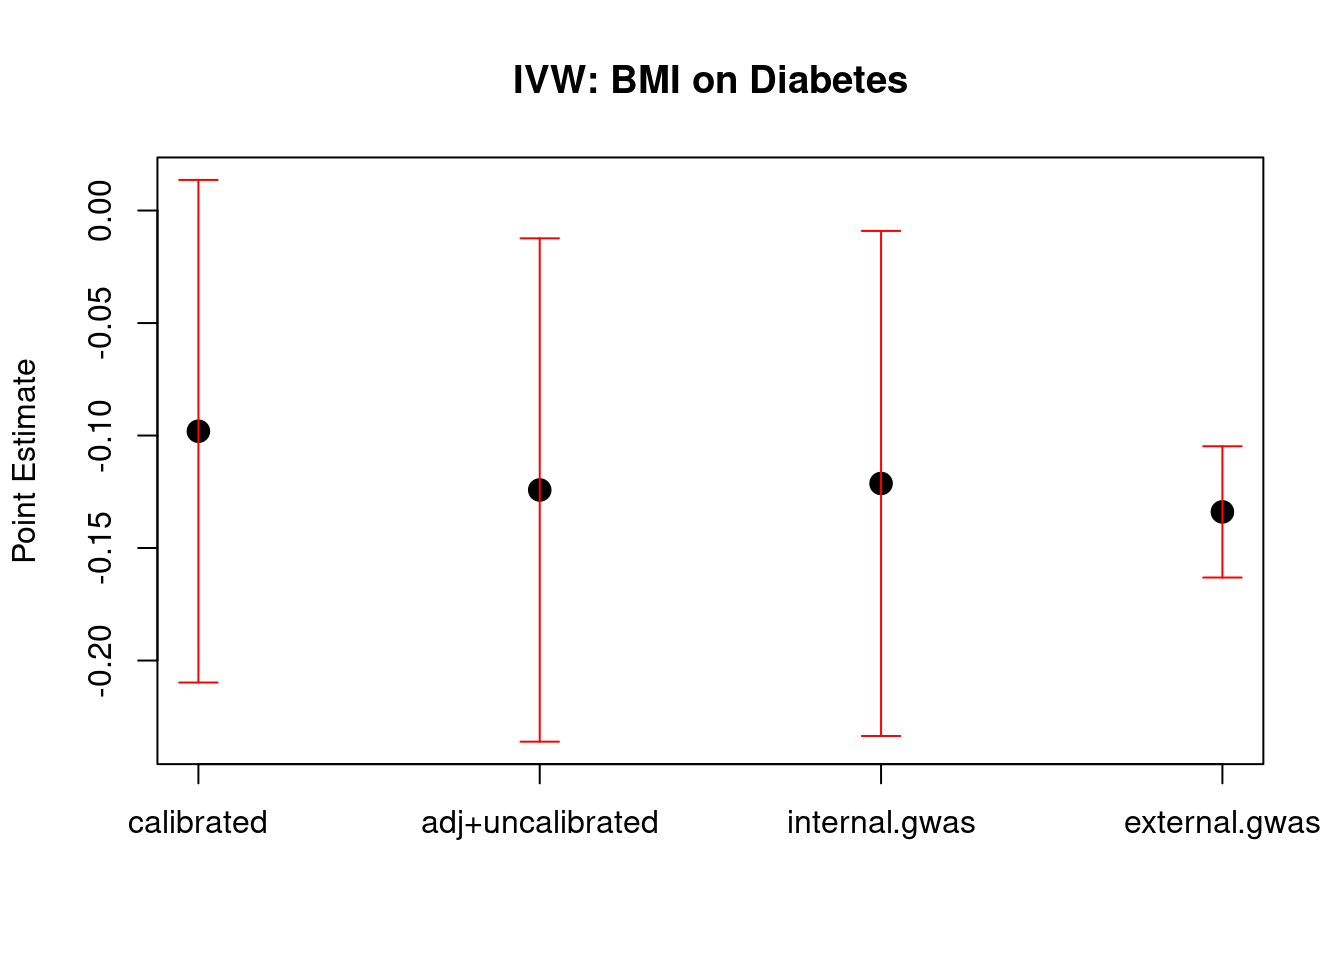
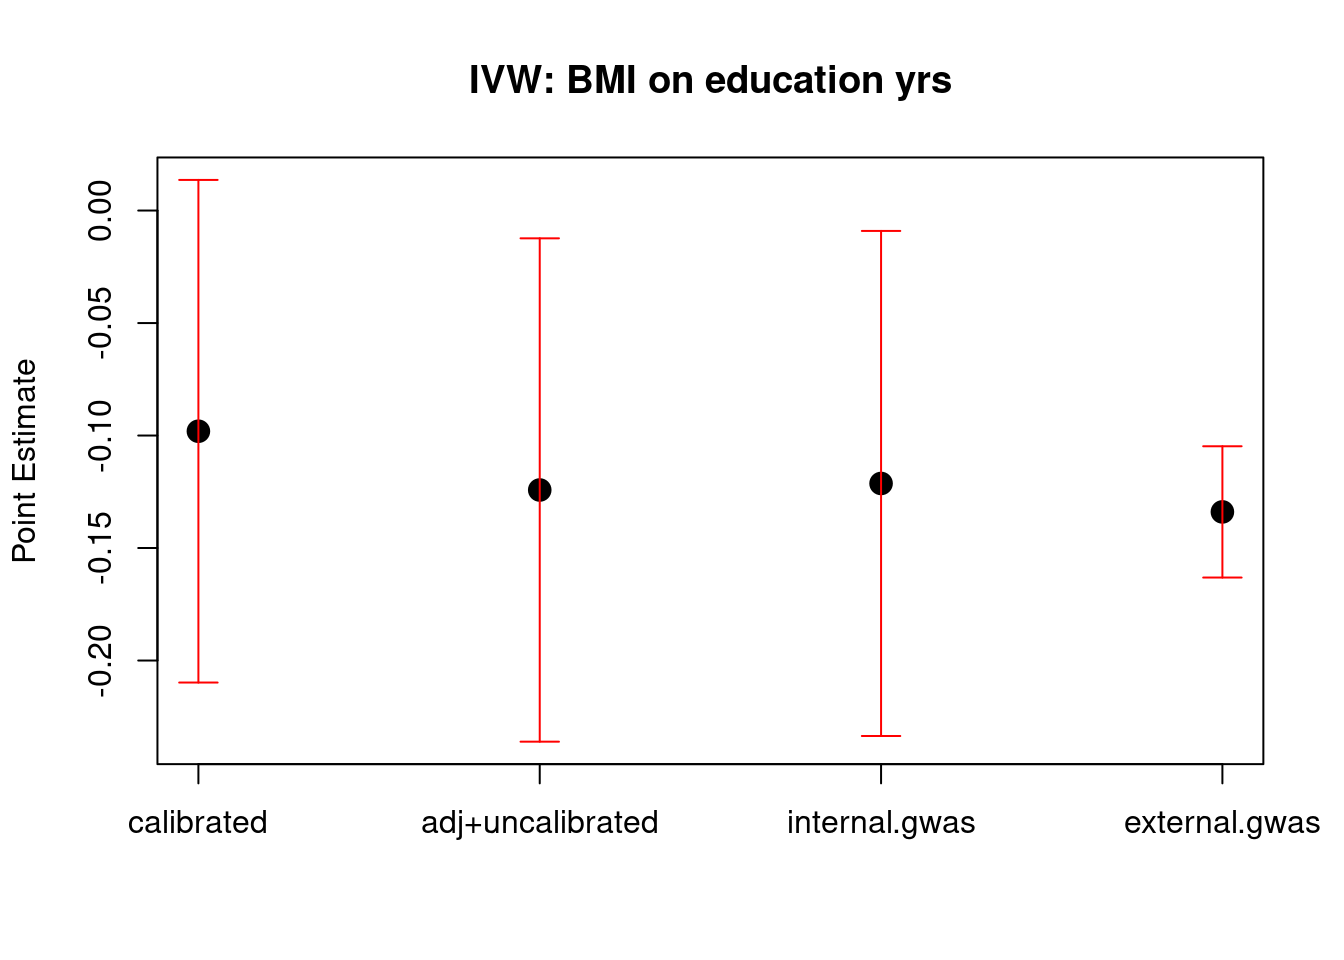
Build site.

Changed region(s): [[0.3438, 0.0625, 0.7188, 0.125]]

diff --git a/docs/ukb_mr_trio.html b/docs/ukb_mr_trio.html
@@ -522,15 +522,15 @@ project makes it easier to run your code on other machines.</p>
 <div class="panel panel-default">
 <div class="panel-heading">
 <p class="panel-title">
-<a data-toggle="collapse" data-parent="#workflowr-checks" href="#strongRepositoryversionstrongahrefhttpsgithubcomyunqiyang0215simulationcalibratedmrtreeabd86948076b5800937be44e376ba9498b3c9bfctargetblankabd8694a">
+<a data-toggle="collapse" data-parent="#workflowr-checks" href="#strongRepositoryversionstrongahrefhttpsgithubcomyunqiyang0215simulationcalibratedmrtree4a9abca28b805d6178f9bb5825d368da3ff2a031targetblank4a9abcaa">
 <span class="glyphicon glyphicon-ok text-success"
 aria-hidden="true"></span> <strong>Repository version:</strong>
-<a href="https://github.com/yunqiyang0215/simulation-calibrated-mr/tree/abd86948076b5800937be44e376ba9498b3c9bfc" target="_blank">abd8694</a>
+<a href="https://github.com/yunqiyang0215/simulation-calibrated-mr/tree/4a9abca28b805d6178f9bb5825d368da3ff2a031" target="_blank">4a9abca</a>
 </a>
 </p>
 </div>
 <div
[2 lines of base64/hex data omitted]
 class="panel-collapse collapse">
 <div class="panel-body">
 <p>
@@ -540,7 +540,7 @@ reproducibility.
 </p>
 <p>
 The results in this page were generated with repository version
-<a href="https://github.com/yunqiyang0215/simulation-calibrated-mr/tree/abd86948076b5800937be44e376ba9498b3c9bfc" target="_blank">abd8694</a>.
+<a href="https://github.com/yunqiyang0215/simulation-calibrated-mr/tree/4a9abca28b805d6178f9bb5825d368da3ff2a031" target="_blank">4a9abca</a>.
 See the <em>Past versions</em> tab to see a history of the changes made
 to the R Markdown and HTML files.
 </p>
@@ -611,6 +611,40 @@ Message
 </tr>
 </thead>
 <tbody>
+<tr>
+<td>
+Rmd
+</td>
+<td>
+<a href="https://github.com/yunqiyang0215/simulation-calibrated-mr/blob/4a9abca28b805d6178f9bb5825d368da3ff2a031/analysis/ukb_mr_trio.Rmd" target="_blank">4a9abca</a>
+</td>
+<td>
+yunqi yang
+</td>
+<td>
+2024-05-16
+</td>
+<td>
+wflow_publish("analysis/ukb_mr_trio.Rmd")
+</td>
+</tr>
+<tr>
+<td>
+html
+</td>
+<td>
+<a href="https://rawcdn.githack.com/yunqiyang0215/simulation-calibrated-mr/1785d3354f20383af199f6a6e18cd15b89bd6384/docs/ukb_mr_trio.html" target="_blank">1785d33</a>
+</td>
+<td>
+yunqi yang
+</td>
+<td>
+2024-05-16
+</td>
+<td>
+Build site.
+</td>
+</tr>
 <tr>
 <td>
 Rmd
@@ -711,6 +745,43 @@ plot(1:4, point_est, ylim=c(min(point_est - error_bars), max(point_est + error_b
 arrows(1:4, point_est - error_bars, 1:4, point_est + error_bars, angle=90, code=3, length=0.1, col=&#39;red&#39;)
 axis(1, at=1:4, labels=labels)</code></pre>
 <p><img src="figure/ukb_mr_trio.Rmd/unnamed-chunk-6-1.png" width="672" style="display: block; margin: auto;" /></p>
+<p>
+<button type="button" class="btn btn-default btn-xs btn-workflowr btn-workflowr-fig" data-toggle="collapse" data-target="#fig-unnamed-chunk-6-1">
+Past versions of unnamed-chunk-6-1.png
+</button>
+</p>
+<div id="fig-unnamed-chunk-6-1" class="collapse">
+<div class="table-responsive">
+<table class="table table-condensed table-hover">
+<thead>
+<tr>
+<th>
+Version
+</th>
+<th>
+Author
+</th>
+<th>
+Date
+</th>
+</tr>
+</thead>
+<tbody>
+<tr>
+<td>
+<a href="https://github.com/yunqiyang0215/simulation-calibrated-mr/blob/1785d3354f20383af199f6a6e18cd15b89bd6384/docs/figure/ukb_mr_trio.Rmd/unnamed-chunk-6-1.png" target="_blank">1785d33</a>
+</td>
+<td>
+yunqi yang
+</td>
+<td>
+2024-05-16
+</td>
+</tr>
+</tbody>
+</table>
+</div>
+</div>
 </div>
 <div id="mr.raps" class="section level4">
 <h4>2. mr.raps</h4>
@@ -755,6 +826,43 @@ plot(1:4, point_est, ylim=c(min(point_est - error_bars), max(point_est + error_b
 arrows(1:4, point_est - error_bars, 1:4, point_est + error_bars, angle=90, code=3, length=0.1, col=&#39;red&#39;)
 axis(1, at=1:4, labels=labels)</code></pre>
 <p><img src="figure/ukb_mr_trio.Rmd/unnamed-chunk-9-1.png" width="672" style="display: block; margin: auto;" /></p>
+<p>
+<button type="button" class="btn btn-default btn-xs btn-workflowr btn-workflowr-fig" data-toggle="collapse" data-target="#fig-unnamed-chunk-9-1">
+Past versions of unnamed-chunk-9-1.png
+</button>
+</p>
+<div id="fig-unnamed-chunk-9-1" class="collapse">
+<div class="table-responsive">
+<table class="table table-condensed table-hover">
+<thead>
+<tr>
+<th>
+Version
+</th>
+<th>
+Author
+</th>
+<th>
+Date
+</th>
+</tr>
+</thead>
+<tbody>
+<tr>
+<td>
+<a href="https://github.com/yunqiyang0215/simulation-calibrated-mr/blob/1785d3354f20383af199f6a6e18cd15b89bd6384/docs/figure/ukb_mr_trio.Rmd/unnamed-chunk-9-1.png" target="_blank">1785d33</a>
+</td>
+<td>
+yunqi yang
+</td>
+<td>
+2024-05-16
+</td>
+</tr>
+</tbody>
+</table>
+</div>
+</div>
 </div>
 </div>
 <div id="bmi-on-education-yrs" class="section level3">
@@ -827,10 +935,47 @@ error_bars &lt;- 1.96 * res.mr[2, ]
 
 # Plotting
 plot(1:4, point_est, ylim=c(min(point_est - error_bars), max(point_est + error_bars)),
-     xaxt=&#39;n&#39;, pch=19, xlab=&#39;&#39;, ylab=&#39;Point Estimate&#39;, main=&#39;IVW: BMI on Diabetes&#39;, cex=1.5)
+     xaxt=&#39;n&#39;, pch=19, xlab=&#39;&#39;, ylab=&#39;Point Estimate&#39;, main=&#39;IVW: BMI on education yrs&#39;, cex=1.5)
 arrows(1:4, point_est - error_bars, 1:4, point_est + error_bars, angle=90, code=3, length=0.1, col=&#39;red&#39;)
 axis(1, at=1:4, labels=labels)</code></pre>
 <p><img src="figure/ukb_mr_trio.Rmd/unnamed-chunk-14-1.png" width="672" style="display: block; margin: auto;" /></p>
+<p>
+<button type="button" class="btn btn-default btn-xs btn-workflowr btn-workflowr-fig" data-toggle="collapse" data-target="#fig-unnamed-chunk-14-1">
+Past versions of unnamed-chunk-14-1.png
+</button>
+</p>
+<div id="fig-unnamed-chunk-14-1" class="collapse">
+<div class="table-responsive">
+<table class="table table-condensed table-hover">
+<thead>
+<tr>
+<th>
+Version
+</th>
+<th>
+Author
+</th>
+<th>
+Date
+</th>
+</tr>
+</thead>
+<tbody>
+<tr>
+<td>
+<a href="https://github.com/yunqiyang0215/simulation-calibrated-mr/blob/1785d3354f20383af199f6a6e18cd15b89bd6384/docs/figure/ukb_mr_trio.Rmd/unnamed-chunk-14-1.png" target="_blank">1785d33</a>
+</td>
+<td>
+yunqi yang
+</td>
+<td>
+2024-05-16
+</td>
+</tr>
+</tbody>
+</table>
+</div>
+</div>
 </div>
 <div id="mr.raps-1" class="section level4">
 <h4>2. mr.raps</h4>
@@ -875,6 +1020,43 @@ plot(1:4, point_est, ylim=c(min(point_est - error_bars), max(point_est + error_b
 arrows(1:4, point_est - error_bars, 1:4, point_est + error_bars, angle=90, code=3, length=0.1, col=&#39;red&#39;)
 axis(1, at=1:4, labels=labels)</code></pre>
 <p><img src="figure/ukb_mr_trio.Rmd/unnamed-chunk-17-1.png" width="672" style="display: block; margin: auto;" /></p>
+<p>
+<button type="button" class="btn btn-default btn-xs btn-workflowr btn-workflowr-fig" data-toggle="collapse" data-target="#fig-unnamed-chunk-17-1">
+Past versions of unnamed-chunk-17-1.png
+</button>
+</p>
+<div id="fig-unnamed-chunk-17-1" class="collapse">
+<div class="table-responsive">
+<table class="table table-condensed table-hover">
+<thead>
+<tr>
+<th>
+Version
+</th>
+<th>
+Author
+</th>
+<th>
+Date
+</th>
+</tr>
+</thead>
+<tbody>
+<tr>
+<td>
+<a href="https://github.com/yunqiyang0215/simulation-calibrated-mr/blob/1785d3354f20383af199f6a6e18cd15b89bd6384/docs/figure/ukb_mr_trio.Rmd/unnamed-chunk-17-1.png" target="_blank">1785d33</a>
+</td>
+<td>
+yunqi yang
+</td>
+<td>
+2024-05-16
+</td>
+</tr>
+</tbody>
+</table>
+</div>
+</div>
 <br>
 <p>
 <button type="button" class="btn btn-default btn-workflowr btn-workflowr-sessioninfo" data-toggle="collapse" data-target="#workflowr-sessioninfo" style="display: block;">
